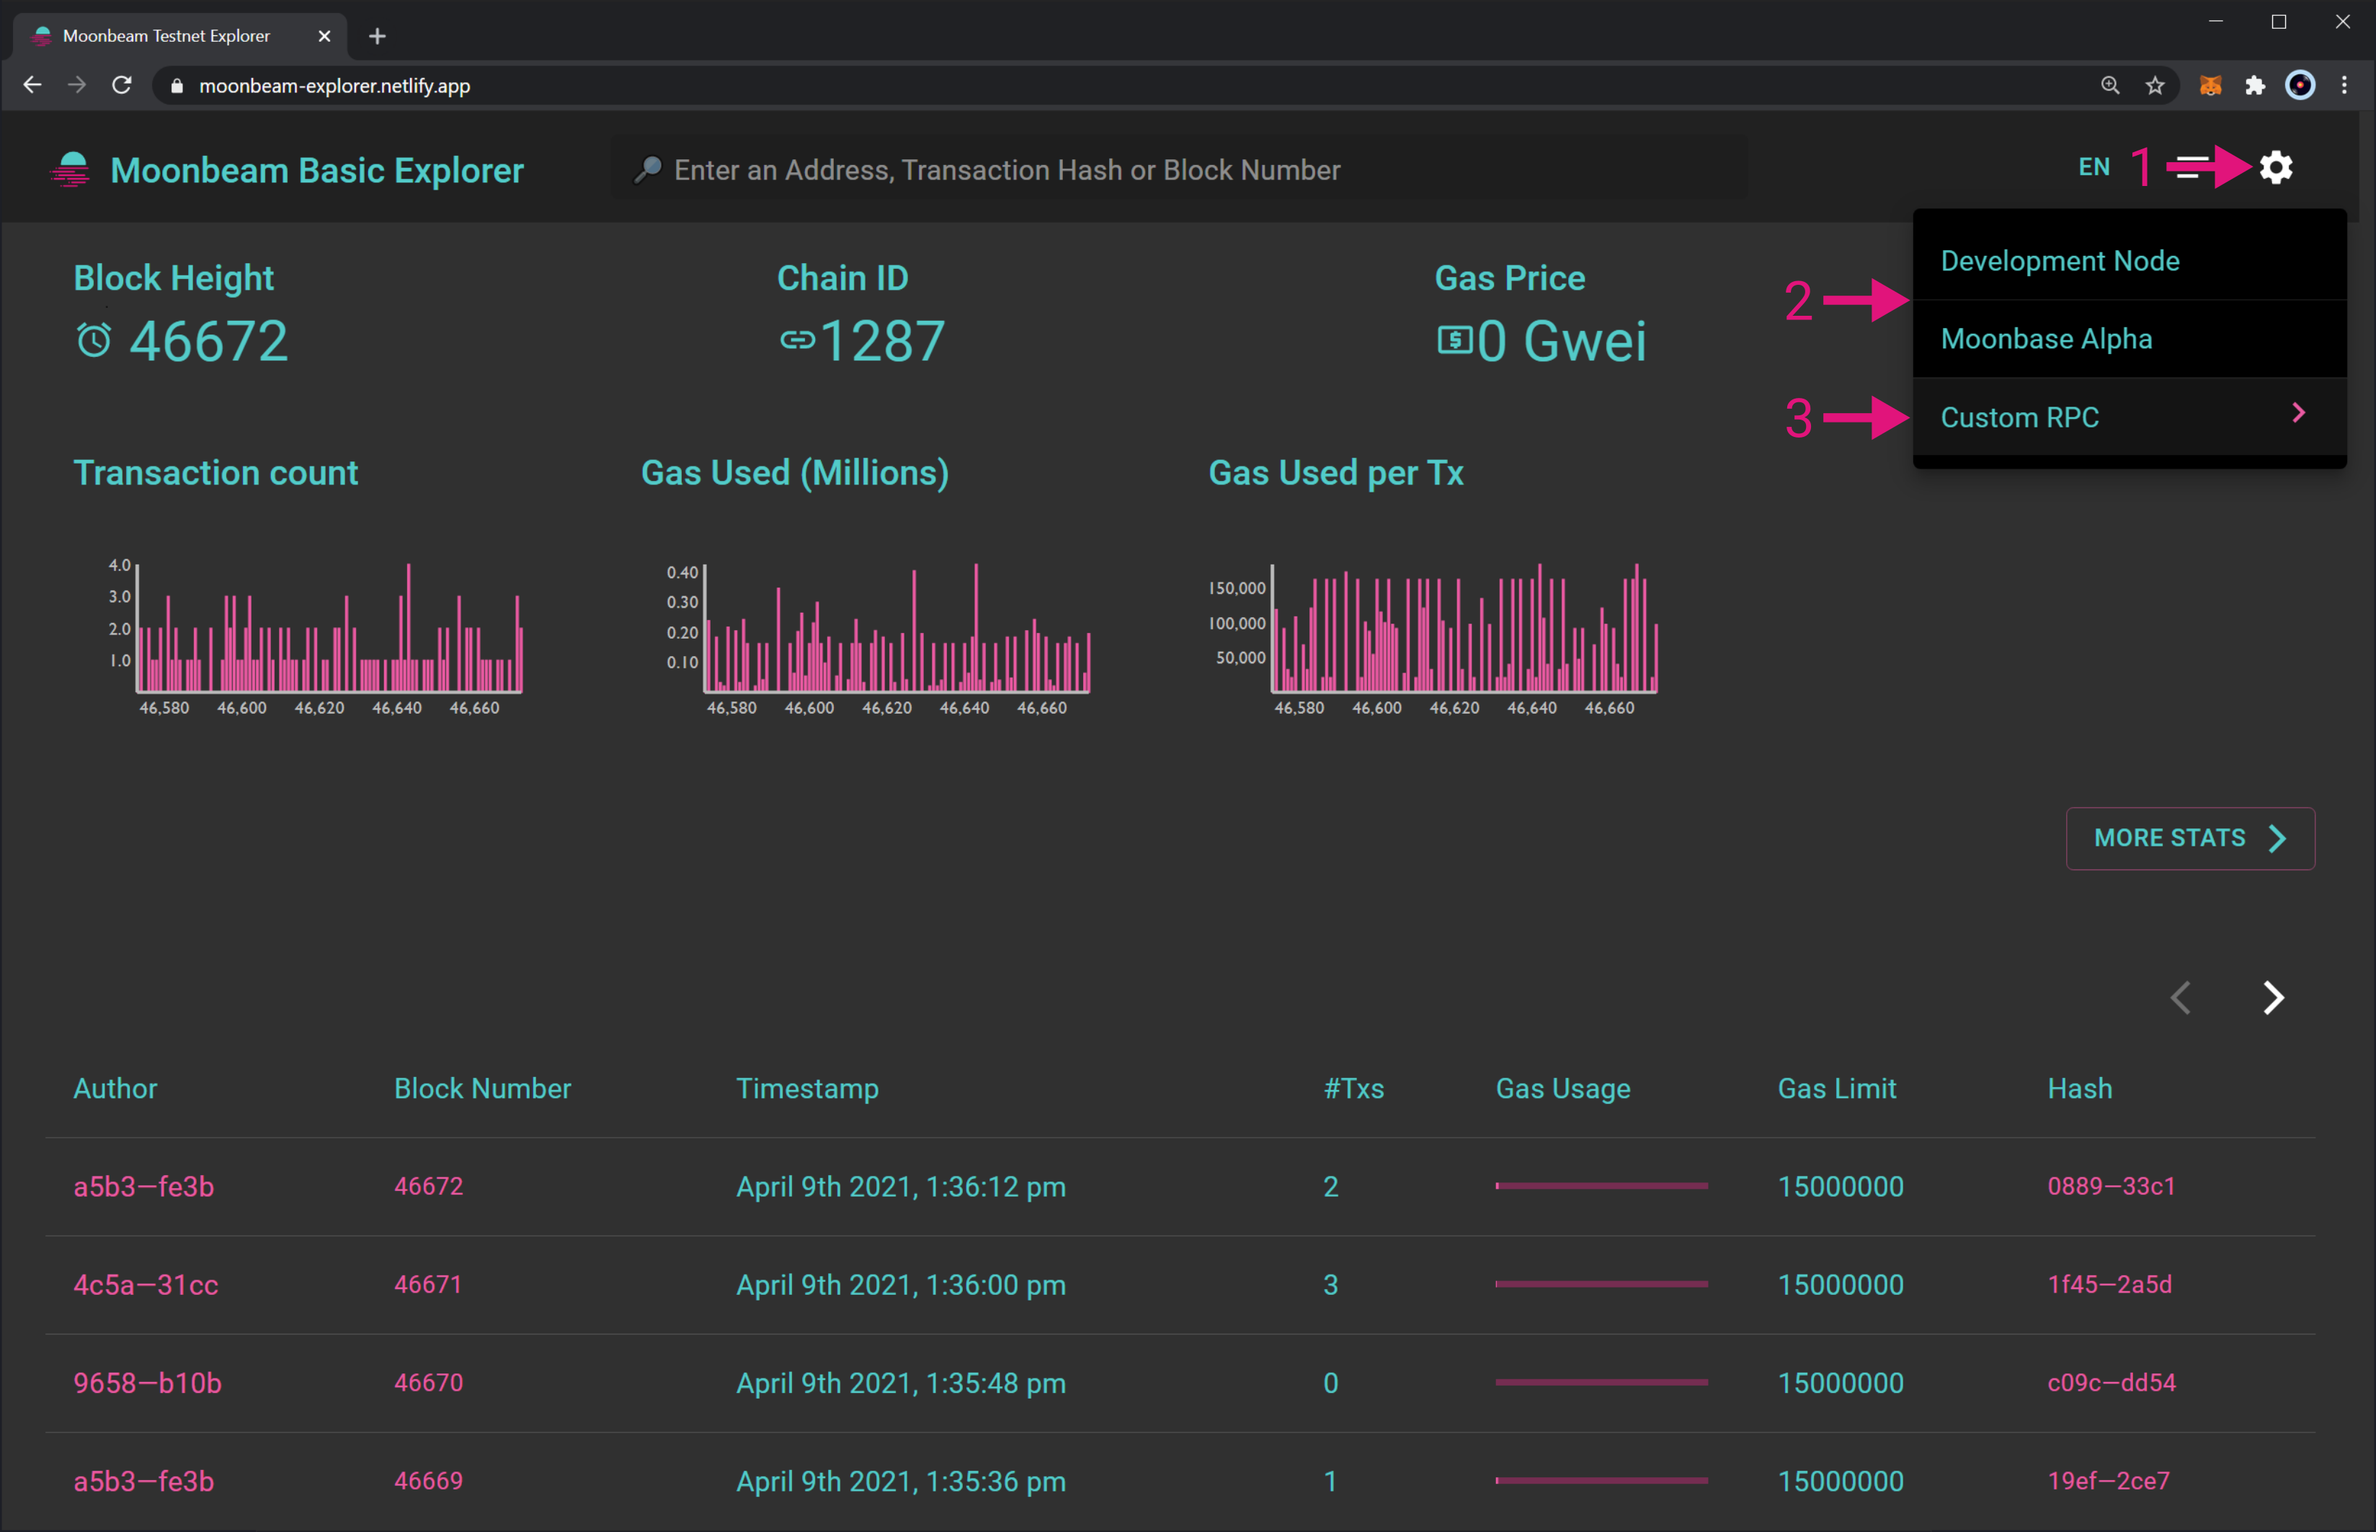
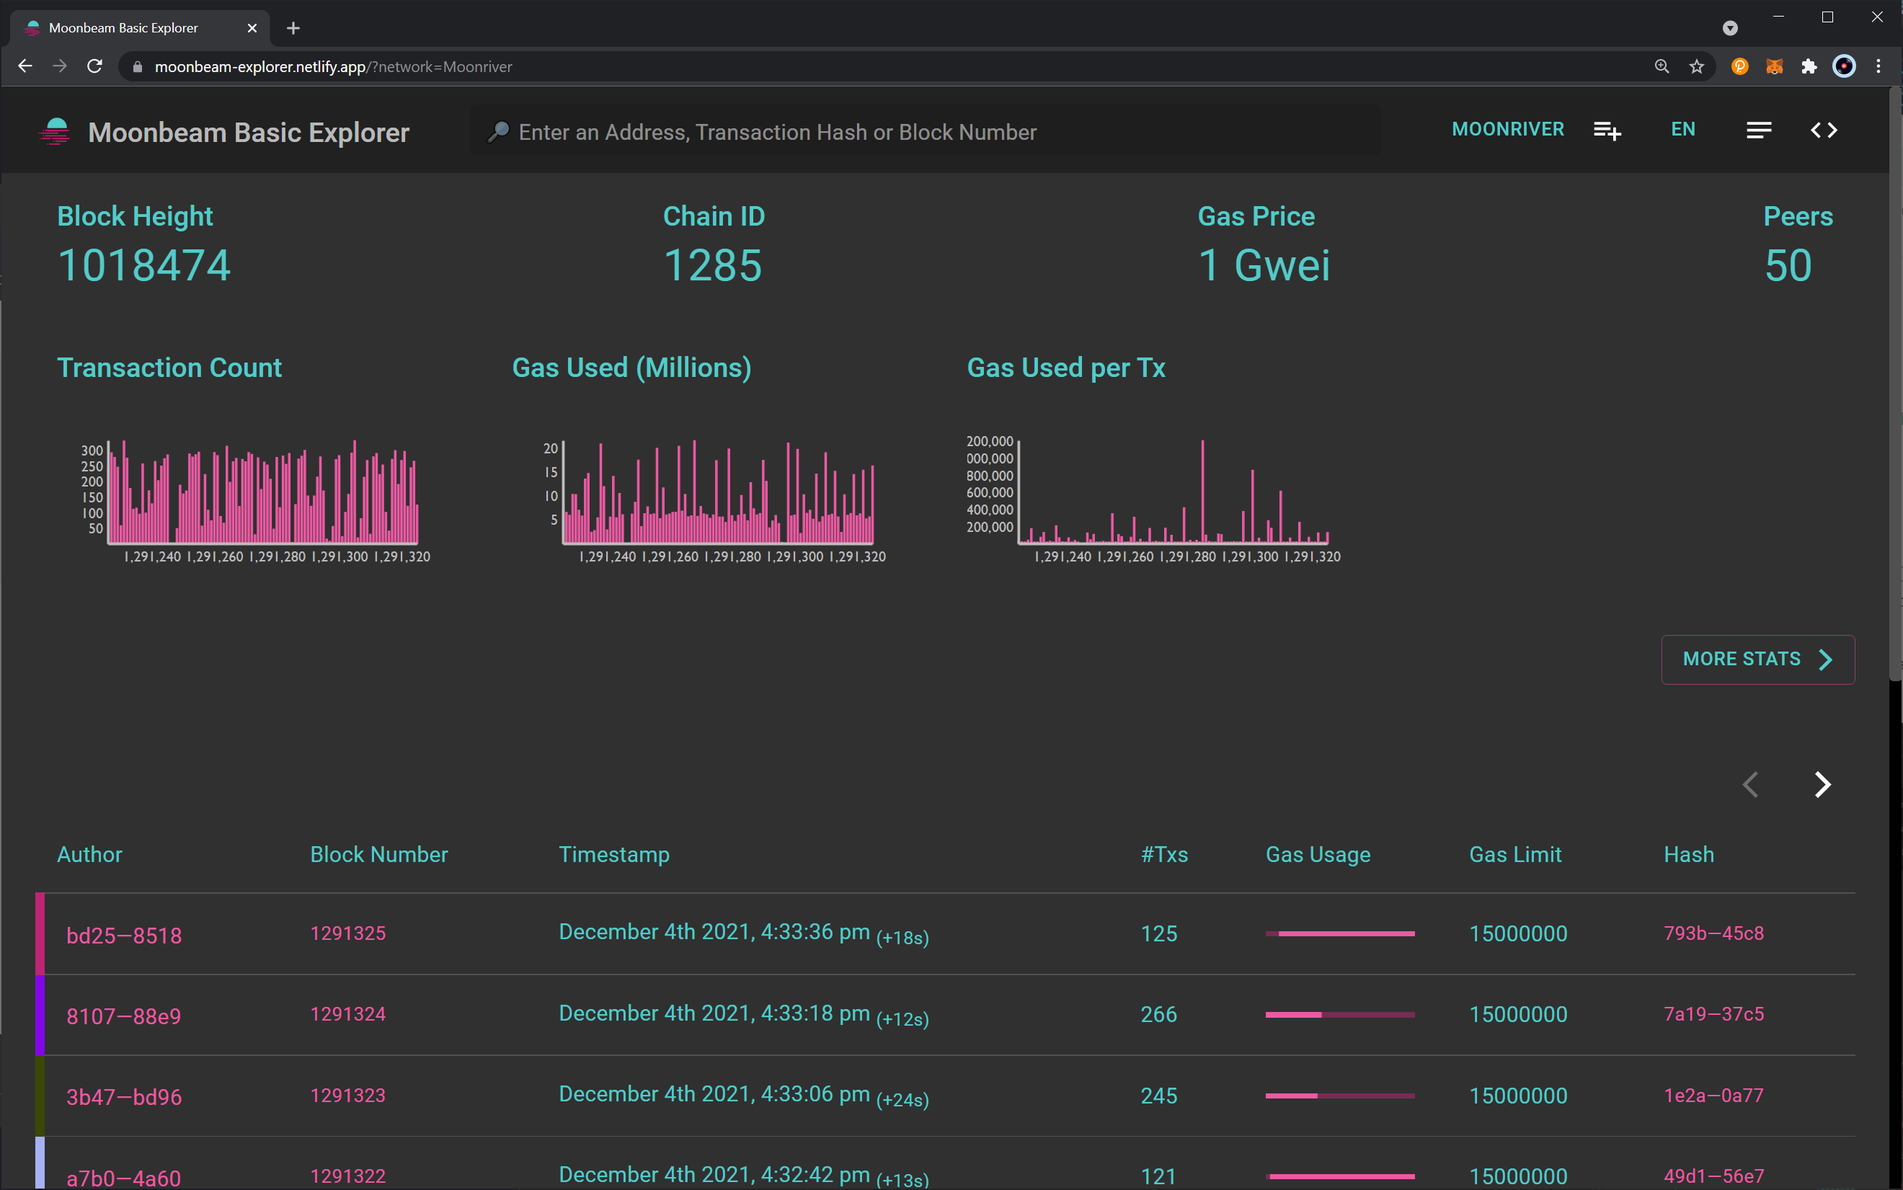
minor modifications

diff --git a/builders/tools/explorers.md b/builders/tools/explorers.md
@@ -67,9 +67,8 @@ A Moonbeam-themed version of the [Expedition](https://github.com/xops/expedition
 
 By default, the explorer is connected to the Moonriver. However, you can switch to another network or connect it to a local dev node by following the next steps:
 
- 1. Click on the gear icon in the top right corner
- 2. Select **Development** if you have a node running on `{{ networks.development.rpc_url }}` (default RPC location of a Moonbeam node running with `--dev`flag). You can also switch back to **Moonbase Alpha**
- 3. In the case you want to connect to a specific RPC URL, select **Custom RPC** and enter the URL. For example, `http://localhost:9937`
+ 1. Click on the network text, where you'll be able to select between all different networks, including a **Moonbeam Development Node** running on `{{ networks.development.rpc_url }}`
+ 2. In the case you want to connect to a specific RPC URL, select **Add Custom Chain** and enter the URL. For example, `http://localhost:9937`
 
 ![Expedition Explorer](/images/builders/tools/explorers/explorers-3.png)
 
